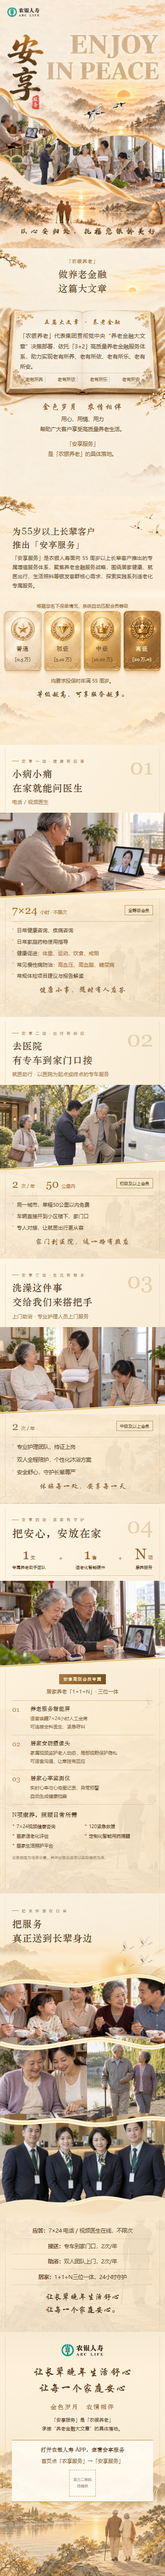
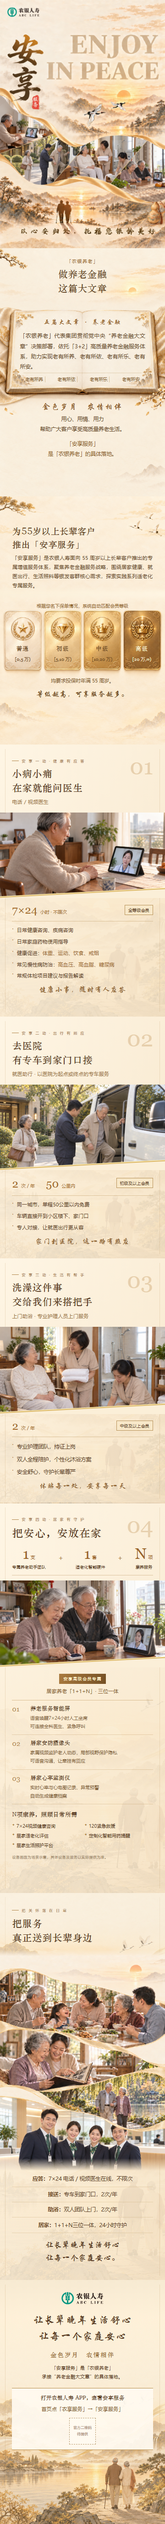
Restore V5 care montage layout

diff --git a/anxiang-svg/native-preview.html b/anxiang-svg/native-preview.html
@@ -9,7 +9,7 @@
  <clipPath id="ax8_formula1"><rect x="36" y="220" width="243" height="220"/></clipPath><clipPath id="ax8_formula2"><rect x="279" y="220" width="306" height="220"/></clipPath><clipPath id="ax8_formula3"><rect x="576" y="220" width="288" height="220"/></clipPath>
  <clipPath id="ax8_close1"><rect x="130" y="165" width="0" height="105"><animate attributeName="width" from="0" to="640" dur="1.7s" begin="ax8_open.click+7.1s" fill="freeze"/></rect></clipPath><clipPath id="ax8_close2"><rect x="150" y="260" width="0" height="110"><animate attributeName="width" from="0" to="610" dur="1.8s" begin="ax8_open.click+8.55s" fill="freeze"/></rect></clipPath>
 </defs>
-<animate attributeName="viewBox" values="0 0 900 1480;0 0 900 2830;0 0 900 4180;0 0 900 5660;0 0 900 6976;0 0 900 8308;0 0 900 10428;0 0 900 12808;0 0 900 14138" begin="ax8_open.click" dur="7.2s" calcMode="linear" keyTimes="0.000;0.125;0.250;0.375;0.500;0.625;0.750;0.875;1.000" fill="freeze" restart="never"/>
+<animate attributeName="viewBox" values="0 0 900 1480;0 0 900 2830;0 0 900 4180;0 0 900 5660;0 0 900 6976;0 0 900 8308;0 0 900 10428;0 0 900 12528;0 0 900 13858" begin="ax8_open.click" dur="7.2s" calcMode="linear" keyTimes="0.000;0.125;0.250;0.375;0.500;0.625;0.750;0.875;1.000" fill="freeze" restart="never"/>
 <rect x="0" y="0" width="900" height="1480" fill="url(#ax8_coverExtension)"/><image href="images/01.png" x="0" y="0" width="900" height="1350" preserveAspectRatio="none"/><rect x="0" y="1298" width="900" height="92" fill="url(#ax8_coverFade)"/>
 <image href="images/02.png" x="0" y="1480" width="900" height="1350" preserveAspectRatio="none"/>
 <image href="motion-bg/03.png" x="0" y="2830" width="900" height="1350" preserveAspectRatio="none"/>
@@ -17,8 +17,8 @@
 <image href="motion-bg/05.png" x="0" y="5660" width="900" height="1316" preserveAspectRatio="none"/>
 <image href="motion-bg/06.png" x="0" y="6976" width="900" height="1332" preserveAspectRatio="none"/>
 <image href="motion-bg/07.png" x="0" y="8308" width="900" height="2120" preserveAspectRatio="none"/>
-<image href="images/08.png" x="0" y="10428" width="900" height="2380" preserveAspectRatio="none"/>
-<image href="motion-bg/09.png" x="0" y="12808" width="900" height="1330" preserveAspectRatio="none"/>
+<image href="images/08.png" x="0" y="10428" width="900" height="2100" preserveAspectRatio="none"/>
+<image href="motion-bg/09.png" x="0" y="12528" width="900" height="1330" preserveAspectRatio="none"/>
 <ellipse cx="675" cy="516" rx="135" ry="110" fill="url(#ax8_sun)" opacity=".13"><animate attributeName="opacity" values=".13;.25;.13" dur="5.8s" repeatCount="3"/></ellipse>
 <rect x="26" y="142" width="255" height="438" rx="28" fill="url(#ax8_mist)" opacity=".98"><animate attributeName="x" from="26" to="281" dur="1.05s" begin=".25s" fill="freeze"/><animate attributeName="width" from="255" to="0" dur="1.05s" begin=".25s" fill="freeze"/><animate attributeName="opacity" from=".98" to="0" dur="1.05s" begin=".25s" fill="freeze"/></rect><rect x="154" y="485" width="76" height="112" rx="16" fill="url(#ax8_mist)" opacity=".99"><animate attributeName="x" from="154" to="230" dur=".8s" begin="1.2s" fill="freeze"/><animate attributeName="width" from="76" to="0" dur=".8s" begin="1.2s" fill="freeze"/><animate attributeName="opacity" from=".99" to="0" dur=".8s" begin="1.2s" fill="freeze"/></rect><rect x="246" y="156" width="630" height="298" rx="32" fill="url(#ax8_mist)" opacity=".97"><animate attributeName="x" from="246" to="876" dur="1.15s" begin="1.85s" fill="freeze"/><animate attributeName="width" from="630" to="0" dur="1.15s" begin="1.85s" fill="freeze"/><animate attributeName="opacity" from=".97" to="0" dur="1.15s" begin="1.85s" fill="freeze"/></rect>
 <g id="ax8_hint" transform="translate(282 1380)" fill="#68451f"><circle cx="20" cy="22" r="8" fill="#b88035"><animate attributeName="r" values="8;6;8" dur="1.6s" repeatCount="indefinite"/></circle><circle cx="20" cy="22" r="17" fill="none" stroke="#b88035" stroke-width="2" opacity=".5"><animate attributeName="r" values="17;22;17" dur="1.6s" repeatCount="indefinite"/><animate attributeName="opacity" values=".5;.16;.5" dur="1.6s" repeatCount="indefinite"/></circle><text x="56" y="33" font-size="30" font-family="Microsoft YaHei,PingFang SC,sans-serif" letter-spacing="3">点击查看服务</text><set attributeName="visibility" to="hidden" begin="ax8_open.click" fill="freeze"/></g>
@@ -35,7 +35,7 @@
 <g transform="translate(0 8308)"><g clip-path="url(#ax8_formula1)" opacity="0" transform="translate(-108 0)"><image href="formula-layers/07.png" width="900" height="2120"/><animate attributeName="opacity" from="0" to="1" dur=".78s" begin="v8_title7_hit.click+.16s" fill="freeze"/><animateTransform attributeName="transform" type="translate" from="-108 0" to="0 0" dur=".78s" begin="v8_title7_hit.click+.16s" fill="freeze"/></g><g clip-path="url(#ax8_formula2)" opacity="0" transform="translate(-108 0)"><image href="formula-layers/07.png" width="900" height="2120"/><animate attributeName="opacity" from="0" to="1" dur=".82s" begin="v8_title7_hit.click+.58s" fill="freeze"/><animateTransform attributeName="transform" type="translate" from="-108 0" to="0 0" dur=".82s" begin="v8_title7_hit.click+.58s" fill="freeze"/></g><g clip-path="url(#ax8_formula3)" opacity="0" transform="translate(-108 0)"><image href="formula-layers/07.png" width="900" height="2120"/><animate attributeName="opacity" from="0" to="1" dur=".86s" begin="v8_title7_hit.click+1.02s" fill="freeze"/><animateTransform attributeName="transform" type="translate" from="-108 0" to="0 0" dur=".86s" begin="v8_title7_hit.click+1.02s" fill="freeze"/></g></g>
 <!-- 第八页保持静态画卷，避免破坏真人照片和宽丝带 -->
 <!-- 第九页：两行主标题从左到右、从上到下依次显露 -->
-<g transform="translate(0 12808)"><g clip-path="url(#ax8_close1)"><image href="title-layers/09.png" width="900" height="1330" preserveAspectRatio="none"/></g><g clip-path="url(#ax8_close2)"><image href="title-layers/09.png" width="900" height="1330" preserveAspectRatio="none"/></g></g>
+<g transform="translate(0 12528)"><g clip-path="url(#ax8_close1)"><image href="title-layers/09.png" width="900" height="1330" preserveAspectRatio="none"/></g><g clip-path="url(#ax8_close2)"><image href="title-layers/09.png" width="900" height="1330" preserveAspectRatio="none"/></g></g>
 <!-- 第九页：湖面低透明波光，限在左侧水域 -->
-<g transform="translate(0 12808)" stroke="#fff2bb" stroke-linecap="round" opacity="0"><animate attributeName="opacity" values="0;.24;.08;0" dur="4s" begin="ax8_open.click+5s" repeatCount="2" fill="freeze"/><path d="M60 1070h135 M250 1104h110 M110 1142h180 M330 1170h170" stroke-width="3"><animateTransform attributeName="transform" type="translate" values="-7 0;8 0;-7 0" dur="3.4s" repeatCount="2"/></path></g>
+<g transform="translate(0 12528)" stroke="#fff2bb" stroke-linecap="round" opacity="0"><animate attributeName="opacity" values="0;.24;.08;0" dur="4s" begin="ax8_open.click+5s" repeatCount="2" fill="freeze"/><path d="M60 1070h135 M250 1104h110 M110 1142h180 M330 1170h170" stroke-width="3"><animateTransform attributeName="transform" type="translate" values="-7 0;8 0;-7 0" dur="3.4s" repeatCount="2"/></path></g>
 </svg></main>

diff --git a/anxiang-svg/index.html b/anxiang-svg/index.html
@@ -21,7 +21,7 @@
  <section class="page page-05 observe" style="aspect-ratio:900/1316"><img src="motion-bg/05.png" alt="就医助行"><img class="title-layer" src="title-layers/05.png" alt=""></section>
  <section class="page page-06 observe" style="aspect-ratio:900/1332"><img src="motion-bg/06.png" alt="上门助浴"><img class="title-layer" src="title-layers/06.png" alt=""></section>
  <section class="page page-07 observe" style="aspect-ratio:900/2120"><img src="motion-bg/07.png" alt="居家养老"><img class="title-layer" src="title-layers/07.png" alt=""><img class="formula-layer f1" src="formula-layers/07.png" alt=""><img class="formula-layer f2" src="formula-layers/07.png" alt=""><img class="formula-layer f3" src="formula-layers/07.png" alt=""></section>
- <section class="page page-08" style="aspect-ratio:900/2380"><img src="images/08.png" alt="关怀落地"></section>
+ <section class="page page-08" style="aspect-ratio:900/2100"><img src="images/08.png" alt="关怀落地"></section>
  <section class="page page-09 observe" style="aspect-ratio:900/1330"><img src="motion-bg/09.png" alt="品牌收尾与服务入口"><img class="closing-title-line line-1" src="title-layers/09.png" alt=""><img class="closing-title-line line-2" src="title-layers/09.png" alt=""><i class="shimmer s1"></i><i class="shimmer s2"></i><i class="shimmer s3"></i><i class="shimmer s4"></i></section>
 </div></main><div class="badge" id="badge">已展开，继续向下滑动</div>
 <script>
